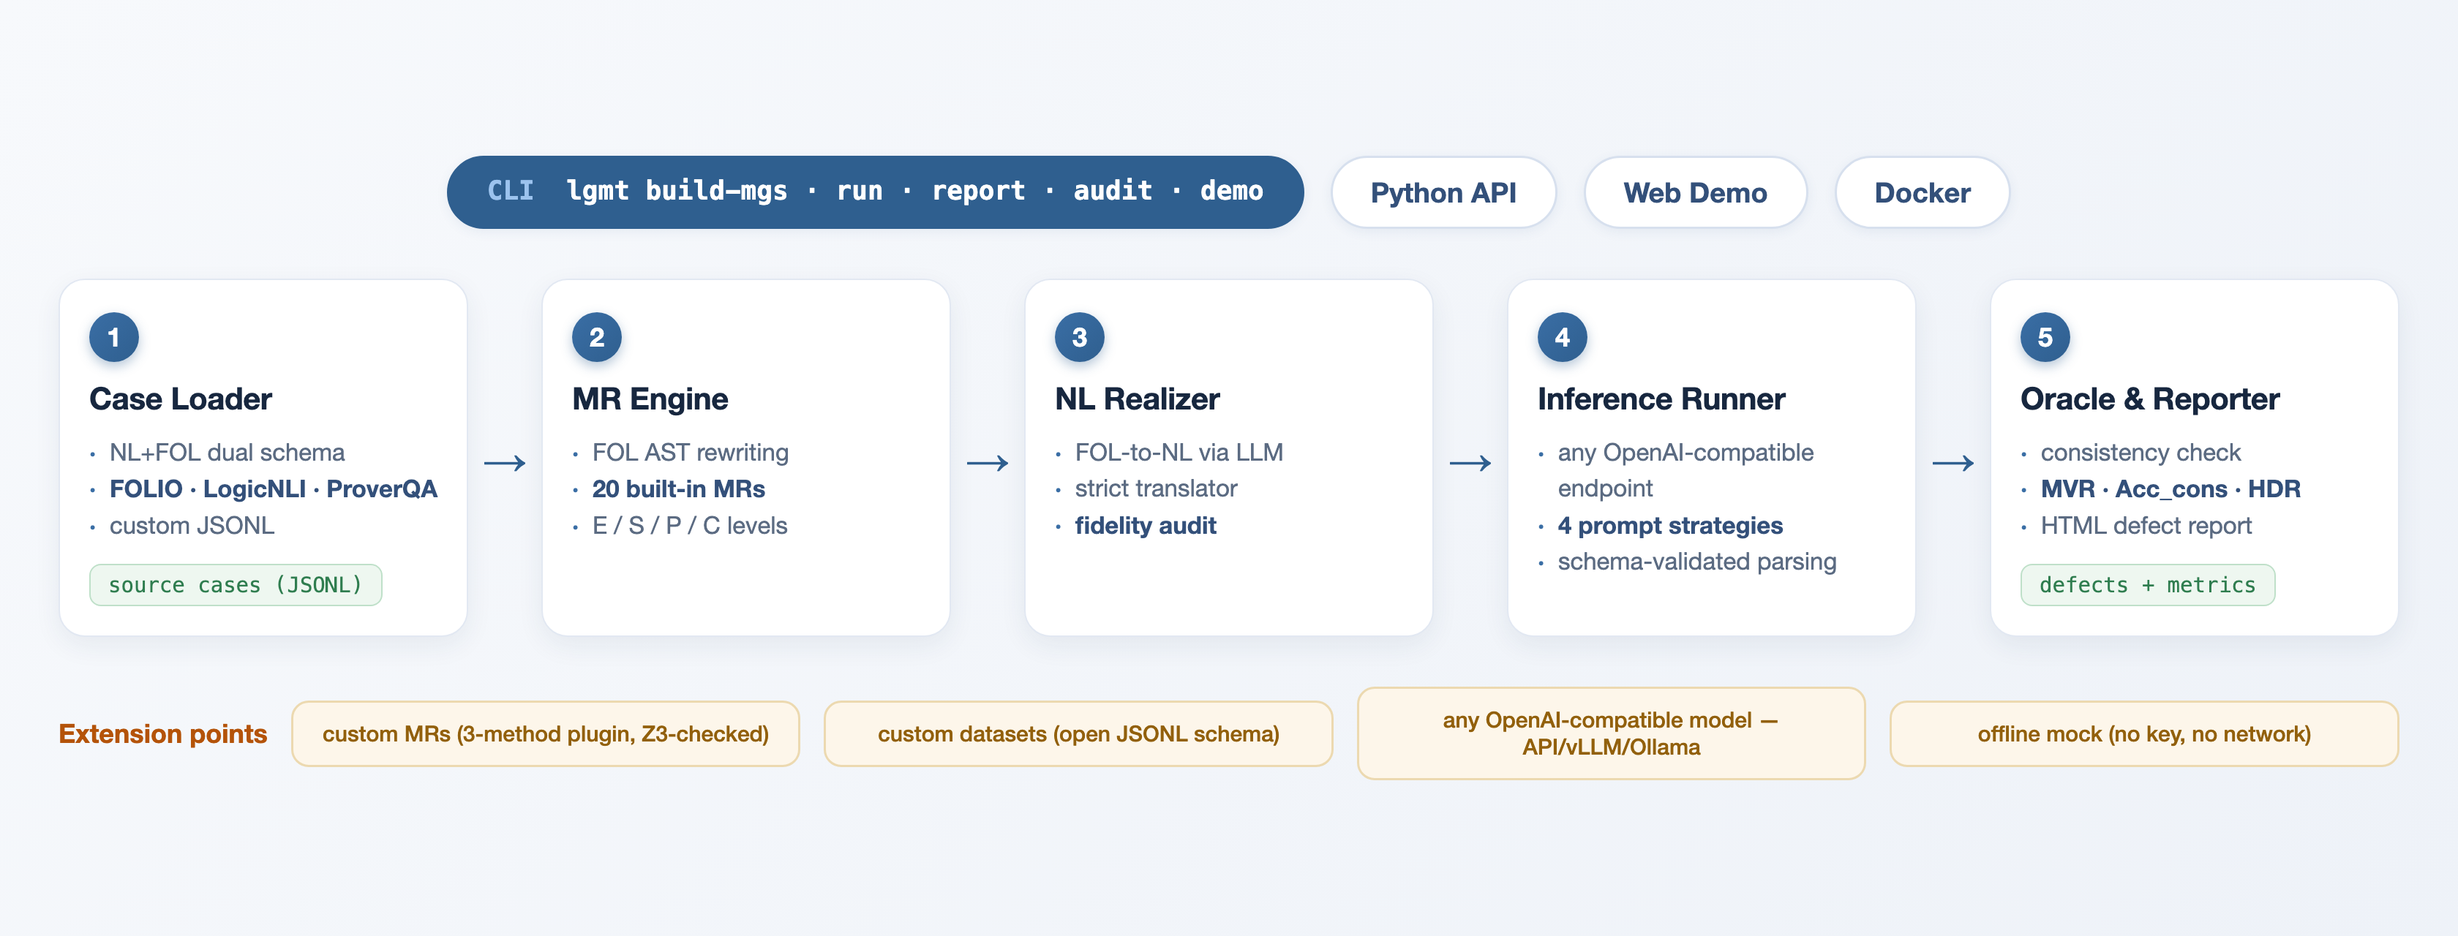
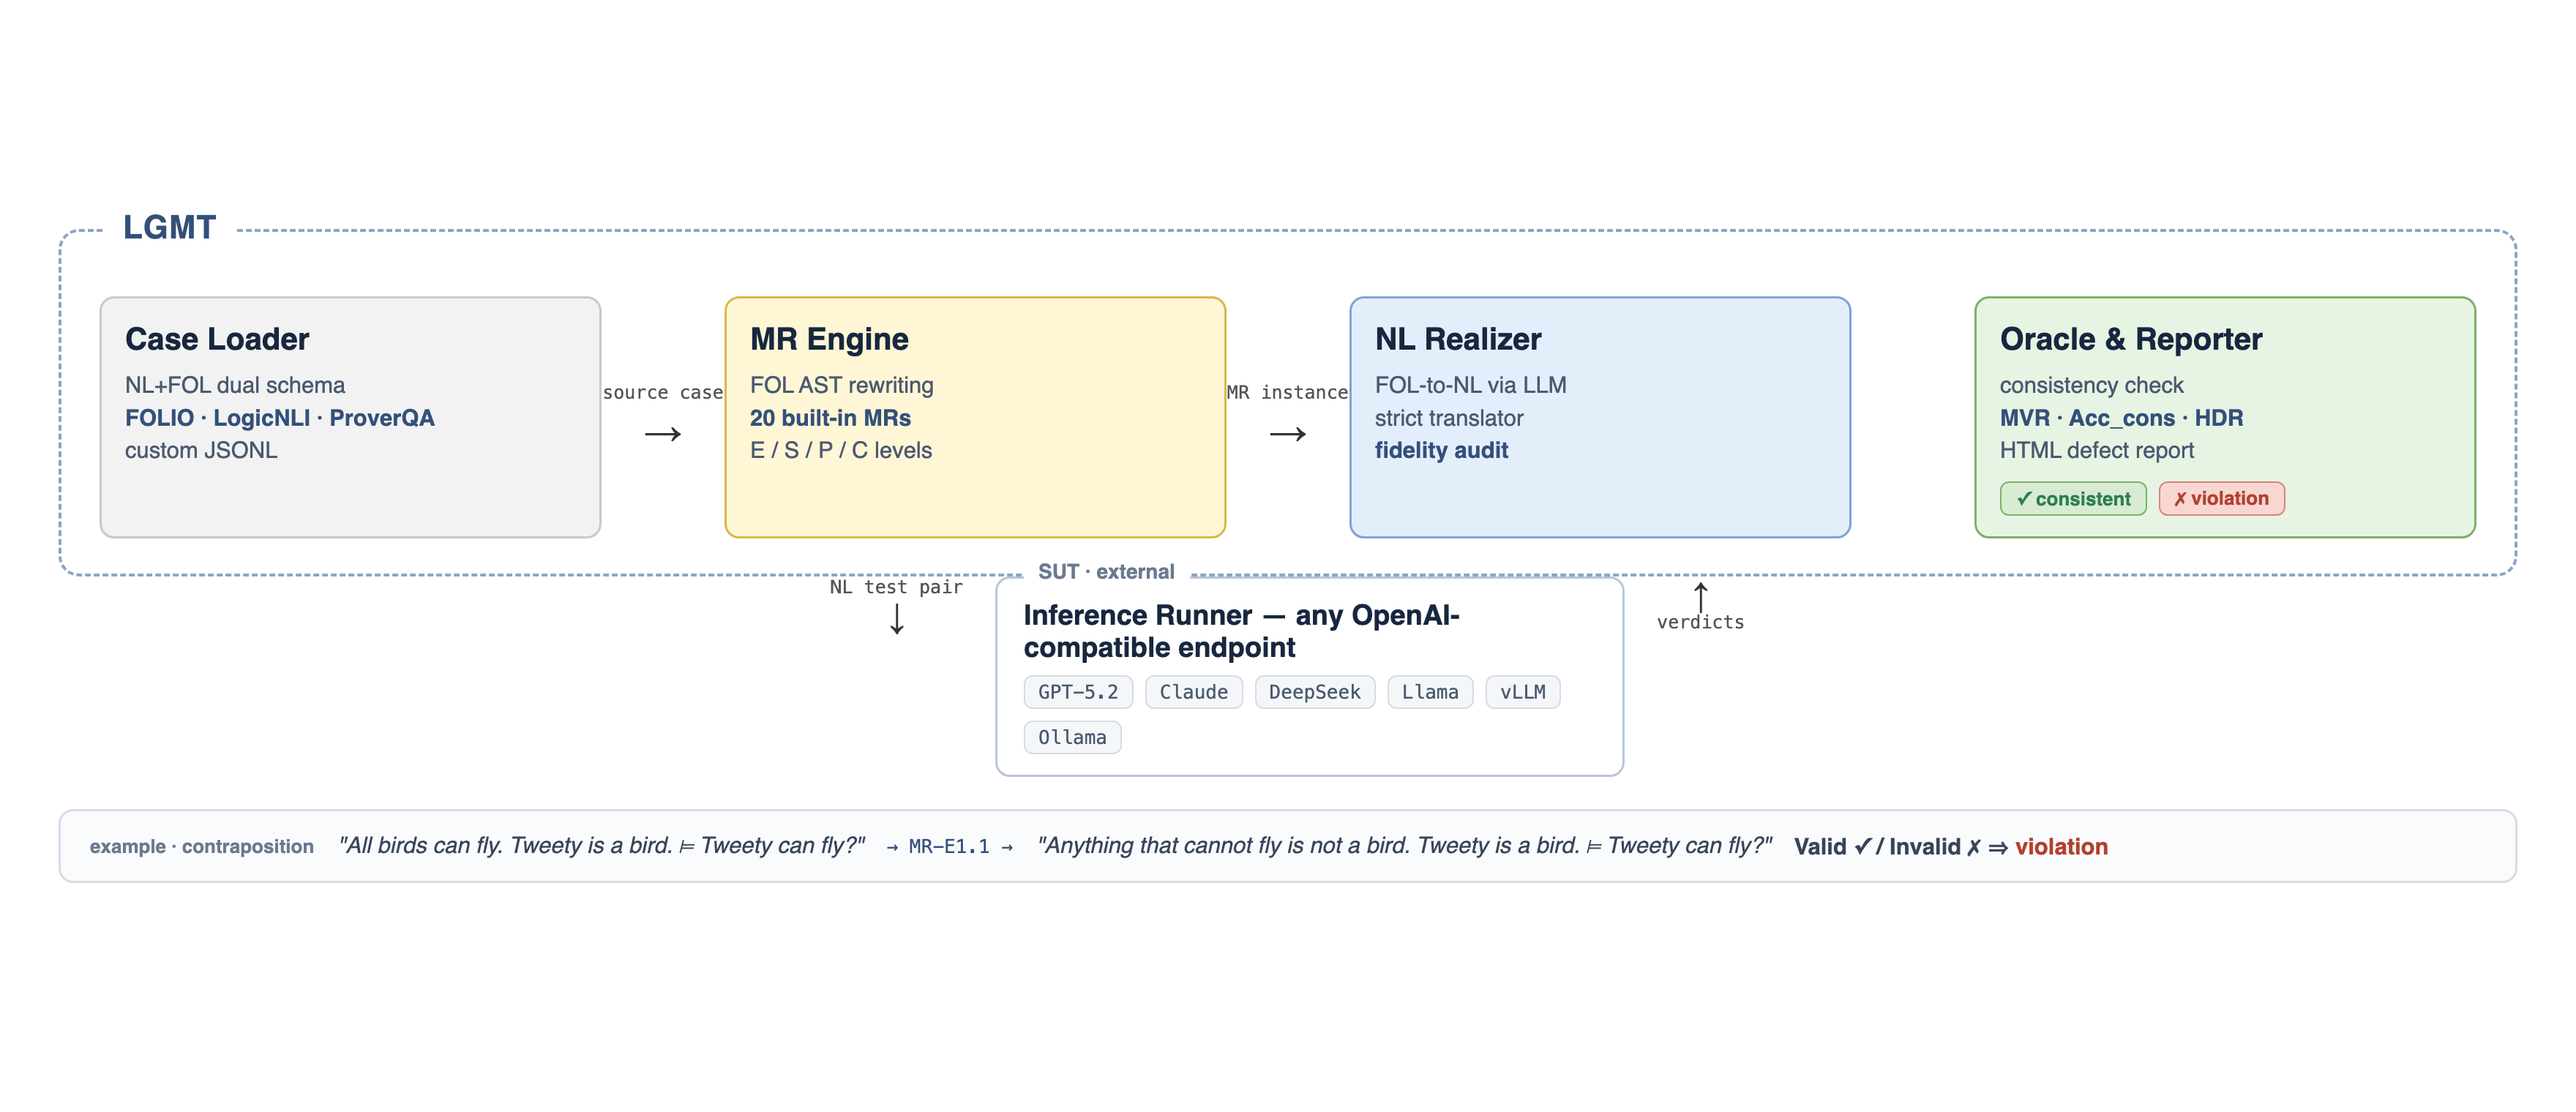
docs: academic-style architecture figure (dashed tool boundary, external SUT, running example strip)

diff --git a/docs/architecture.html b/docs/architecture.html
@@ -3,127 +3,149 @@
 <head>
 <meta charset="utf-8">
 <style>
-  @page { size: 1680px 640px; margin: 0; }
+  @page { size: 1760px 760px; margin: 0; }
   * { margin:0; padding:0; box-sizing:border-box; }
   body {
-    width: 1680px; height: 640px;
-    font-family: -apple-system, "Helvetica Neue", "Segoe UI", Arial, sans-serif;
-    background: linear-gradient(135deg, #f7f9fc 0%, #eef2f8 100%);
+    width: 1760px; height: 760px;
+    font-family: Helvetica, Arial, "DejaVu Sans", sans-serif;
+    background: #ffffff;
     display: flex; align-items: center; justify-content: center;
   }
-  .canvas { width: 1600px; }
+  .canvas { width: 1680px; }
 
-  /* ---------- top interface pills ---------- */
-  .ifaces { display: flex; gap: 18px; justify-content: center; margin-bottom: 34px; }
-  .pill {
-    background: #ffffff; border: 1.5px solid #d7e0ee; border-radius: 999px;
-    padding: 12px 26px; font-size: 19px; color: #33507a; font-weight: 600;
-    box-shadow: 0 2px 8px rgba(47,95,143,.08);
+  /* ---------- LGMT dashed container ---------- */
+  .lgmt-box {
+    border: 2px dashed #8aa5c4; border-radius: 14px;
+    padding: 44px 26px 24px; position: relative;
   }
-  .pill.cli { background: #2f5f8f; border-color: #2f5f8f; color: #fff; font-family: "SF Mono", Menlo, monospace; font-size: 18px; }
-  .pill.cli b { color: #9cc3ee; font-weight: 600; }
+  .lgmt-tag {
+    position: absolute; top: -16px; left: 28px; background: #fff;
+    font-size: 22px; font-weight: 700; color: #33507a; padding: 0 14px;
+    letter-spacing: 0.02em;
+  }
 
-  /* ---------- pipeline ---------- */
-  .flow { display: flex; align-items: stretch; gap: 0; }
+  .flow { display: flex; align-items: stretch; }
   .stage {
-    flex: 1; background: #ffffff; border-radius: 18px; padding: 22px 20px 20px;
-    border: 1px solid #e2e8f2;
-    box-shadow: 0 6px 18px rgba(30,55,90,.07);
-    position: relative;
+    flex: 1; border-radius: 10px; border: 1.5px solid #b9c6d8;
+    padding: 16px 16px 14px; background: #fff;
   }
-  .stage + .arrow { align-self: center; margin: 0 10px; color: #2f5f8f; font-size: 30px; font-weight: 700; }
-  .num {
-    width: 34px; height: 34px; border-radius: 50%;
-    background: linear-gradient(135deg, #3a6ea5, #2f5f8f); color: #fff;
-    display: flex; align-items: center; justify-content: center;
-    font-size: 18px; font-weight: 700; margin-bottom: 12px;
-    box-shadow: 0 3px 8px rgba(47,95,143,.35);
-  }
-  .stage h3 { font-size: 21px; color: #17273f; margin-bottom: 12px; letter-spacing: -0.01em; }
+  .stage h3 { font-size: 21px; color: #17273f; margin-bottom: 8px; }
   .stage ul { list-style: none; }
-  .stage li { font-size: 16.5px; color: #5b6b82; line-height: 1.5; padding-left: 14px; position: relative; }
-  .stage li::before { content: "·"; position: absolute; left: 0; color: #3a6ea5; font-weight: 700; }
-  .stage li em { font-style: normal; color: #33507a; font-weight: 600; }
-  .io {
-    margin-top: 14px; display: inline-block; font-family: "SF Mono", Menlo, monospace;
-    font-size: 14.5px; background: #eef7f0; color: #2f7d4f; border: 1px solid #bfe0c9;
-    border-radius: 8px; padding: 5px 12px;
-  }
+  .stage li { font-size: 15.5px; color: #4a5a70; line-height: 1.45; }
+  .stage li b { color: #33507a; }
 
-  /* ---------- extension chips ---------- */
-  .ext { display: flex; gap: 16px; margin-top: 34px; align-items: center; }
-  .ext .label { font-size: 18px; font-weight: 700; color: #b45309; white-space: nowrap; }
-  .chip {
-    flex: 1; text-align: center; background: #fdf6ea; border: 1.5px solid #ecd9b0;
-    color: #92600c; border-radius: 12px; padding: 12px 10px; font-size: 15px; font-weight: 500;
+  .c-gray   { background: #f2f2f2; border-color: #c9c9c9; }
+  .c-yellow { background: #fff6d6; border-color: #d9b84a; }
+  .c-blue   { background: #e4eefb; border-color: #7fa3d4; }
+  .c-green  { background: #e7f4e4; border-color: #7fb069; }
+
+  .conn { display: flex; flex-direction: column; justify-content: center; align-items: center; width: 84px; }
+  .conn .lbl { font-family: "SF Mono", Menlo, monospace; font-size: 12.5px; color: #555; text-align: center; margin-bottom: 4px; }
+  .conn .arr { color: #333; font-size: 26px; font-weight: 700; }
+
+  .verdict { display: flex; gap: 8px; margin-top: 10px; }
+  .vb { font-size: 13px; font-weight: 700; border-radius: 6px; padding: 3px 10px; }
+  .pass { background: #d7ecd2; color: #2f7d4f; border: 1px solid #7fb069; }
+  .fail { background: #f8d7d2; color: #b3402f; border: 1px solid #d9837a; }
+
+  /* ---------- external SUT below the container ---------- */
+  .sut-row { display: flex; justify-content: center; margin-top: 0; position: relative; }
+  .sut {
+    width: 430px; background: #ffffff; border: 1.5px solid #b9c6d8; border-radius: 10px;
+    padding: 14px 18px; position: relative;
   }
+  .sut .tag {
+    position: absolute; top: -13px; left: 18px; background: #fff; padding: 0 10px;
+    font-size: 14px; font-weight: 700; color: #6b7a90;
+  }
+  .sut h3 { font-size: 19px; color: #17273f; margin-bottom: 8px; }
+  .models { display: flex; gap: 8px; flex-wrap: wrap; }
+  .m { font-size: 13px; font-family: "SF Mono", Menlo, monospace; color: #4a5a70;
+       background: #f4f6f9; border: 1px solid #d5dce6; border-radius: 6px; padding: 3px 9px; }
+
+  .elbow { color: #333; font-size: 24px; font-weight: 700; line-height: 1; }
+  .elbl { font-family: "SF Mono", Menlo, monospace; font-size: 12.5px; color: #555; }
+
+  /* ---------- running example strip ---------- */
+  .example {
+    margin-top: 22px; border: 1.5px solid #d5dce6; border-radius: 10px;
+    padding: 12px 20px; display: flex; align-items: center; gap: 16px;
+    font-size: 15.5px; color: #37455a; background: #fafbfd;
+  }
+  .example .etag { font-size: 13px; font-weight: 700; color: #6b7a90; white-space: nowrap; }
+  .example .q { font-style: italic; }
+  .example .mr { font-family: "SF Mono", Menlo, monospace; font-size: 13px; color: #33507a; white-space: nowrap; }
+  .example .out { font-weight: 700; }
 </style>
 </head>
 <body>
 <div class="canvas">
 
-  <div class="ifaces">
-    <div class="pill cli"><b>CLI</b>&nbsp; lgmt build-mgs · run · report · audit · demo</div>
-    <div class="pill">Python API</div>
-    <div class="pill">Web Demo</div>
-    <div class="pill">Docker</div>
-  </div>
-
-  <div class="flow">
-    <div class="stage">
-      <div class="num">1</div><h3>Case Loader</h3>
-      <ul>
-        <li>NL+FOL dual schema</li>
-        <li><em>FOLIO · LogicNLI · ProverQA</em></li>
-        <li>custom JSONL</li>
-      </ul>
-      <div class="io">source cases (JSONL)</div>
-    </div>
-    <div class="arrow">→</div>
-    <div class="stage">
-      <div class="num">2</div><h3>MR Engine</h3>
-      <ul>
-        <li>FOL AST rewriting</li>
-        <li><em>20 built-in MRs</em></li>
-        <li>E / S / P / C levels</li>
-      </ul>
-    </div>
-    <div class="arrow">→</div>
-    <div class="stage">
-      <div class="num">3</div><h3>NL Realizer</h3>
-      <ul>
-        <li>FOL-to-NL via LLM</li>
-        <li>strict translator</li>
-        <li><em>fidelity audit</em></li>
-      </ul>
-    </div>
-    <div class="arrow">→</div>
-    <div class="stage">
-      <div class="num">4</div><h3>Inference Runner</h3>
-      <ul>
-        <li>any OpenAI-compatible endpoint</li>
-        <li><em>4 prompt strategies</em></li>
-        <li>schema-validated parsing</li>
-      </ul>
-    </div>
-    <div class="arrow">→</div>
-    <div class="stage">
-      <div class="num">5</div><h3>Oracle &amp; Reporter</h3>
-      <ul>
-        <li>consistency check</li>
-        <li><em>MVR · Acc_cons · HDR</em></li>
-        <li>HTML defect report</li>
-      </ul>
-      <div class="io">defects + metrics</div>
+  <div class="lgmt-box">
+    <div class="lgmt-tag">LGMT</div>
+    <div class="flow">
+      <div class="stage c-gray">
+        <h3>Case Loader</h3>
+        <ul>
+          <li>NL+FOL dual schema</li>
+          <li><b>FOLIO · LogicNLI · ProverQA</b></li>
+          <li>custom JSONL</li>
+        </ul>
+      </div>
+      <div class="conn"><div class="lbl">source case</div><div class="arr">→</div></div>
+      <div class="stage c-yellow">
+        <h3>MR Engine</h3>
+        <ul>
+          <li>FOL AST rewriting</li>
+          <li><b>20 built-in MRs</b></li>
+          <li>E / S / P / C levels</li>
+        </ul>
+      </div>
+      <div class="conn"><div class="lbl">MR instance</div><div class="arr">→</div></div>
+      <div class="stage c-blue">
+        <h3>NL Realizer</h3>
+        <ul>
+          <li>FOL-to-NL via LLM</li>
+          <li>strict translator</li>
+          <li><b>fidelity audit</b></li>
+        </ul>
+      </div>
+      <div style="width:84px"></div>
+      <div class="stage c-green">
+        <h3>Oracle &amp; Reporter</h3>
+        <ul>
+          <li>consistency check</li>
+          <li><b>MVR · Acc_cons · HDR</b></li>
+          <li>HTML defect report</li>
+        </ul>
+        <div class="verdict"><span class="vb pass">✓ consistent</span><span class="vb fail">✗ violation</span></div>
+      </div>
     </div>
   </div>
 
-  <div class="ext">
-    <div class="label">Extension points</div>
-    <div class="chip">custom MRs (3-method plugin, Z3-checked)</div>
-    <div class="chip">custom datasets (open JSONL schema)</div>
-    <div class="chip">any OpenAI-compatible model — API/vLLM/Ollama</div>
-    <div class="chip">offline mock (no key, no network)</div>
+  <div class="sut-row">
+    <div style="display:flex; flex-direction:column; align-items:center; margin-right:22px;">
+      <div class="elbl">NL test pair</div><div class="elbow">↓</div>
+    </div>
+    <div class="sut">
+      <div class="tag">SUT · external</div>
+      <h3>Inference Runner — any OpenAI-compatible endpoint</h3>
+      <div class="models">
+        <span class="m">GPT-5.2</span><span class="m">Claude</span><span class="m">DeepSeek</span>
+        <span class="m">Llama</span><span class="m">vLLM</span><span class="m">Ollama</span>
+      </div>
+    </div>
+    <div style="display:flex; flex-direction:column; align-items:center; margin-left:22px;">
+      <div class="elbow">↑</div><div class="elbl">verdicts</div>
+    </div>
+  </div>
+
+  <div class="example">
+    <span class="etag">example · contraposition</span>
+    <span class="q">"All birds can fly. Tweety is a bird. ⊨ Tweety can fly?"</span>
+    <span class="mr">→ MR-E1.1 →</span>
+    <span class="q">"Anything that cannot fly is not a bird. Tweety is a bird. ⊨ Tweety can fly?"</span>
+    <span class="out">Valid ✓ / Invalid ✗ ⇒ <span style="color:#b3402f">violation</span></span>
   </div>
 
 </div>
